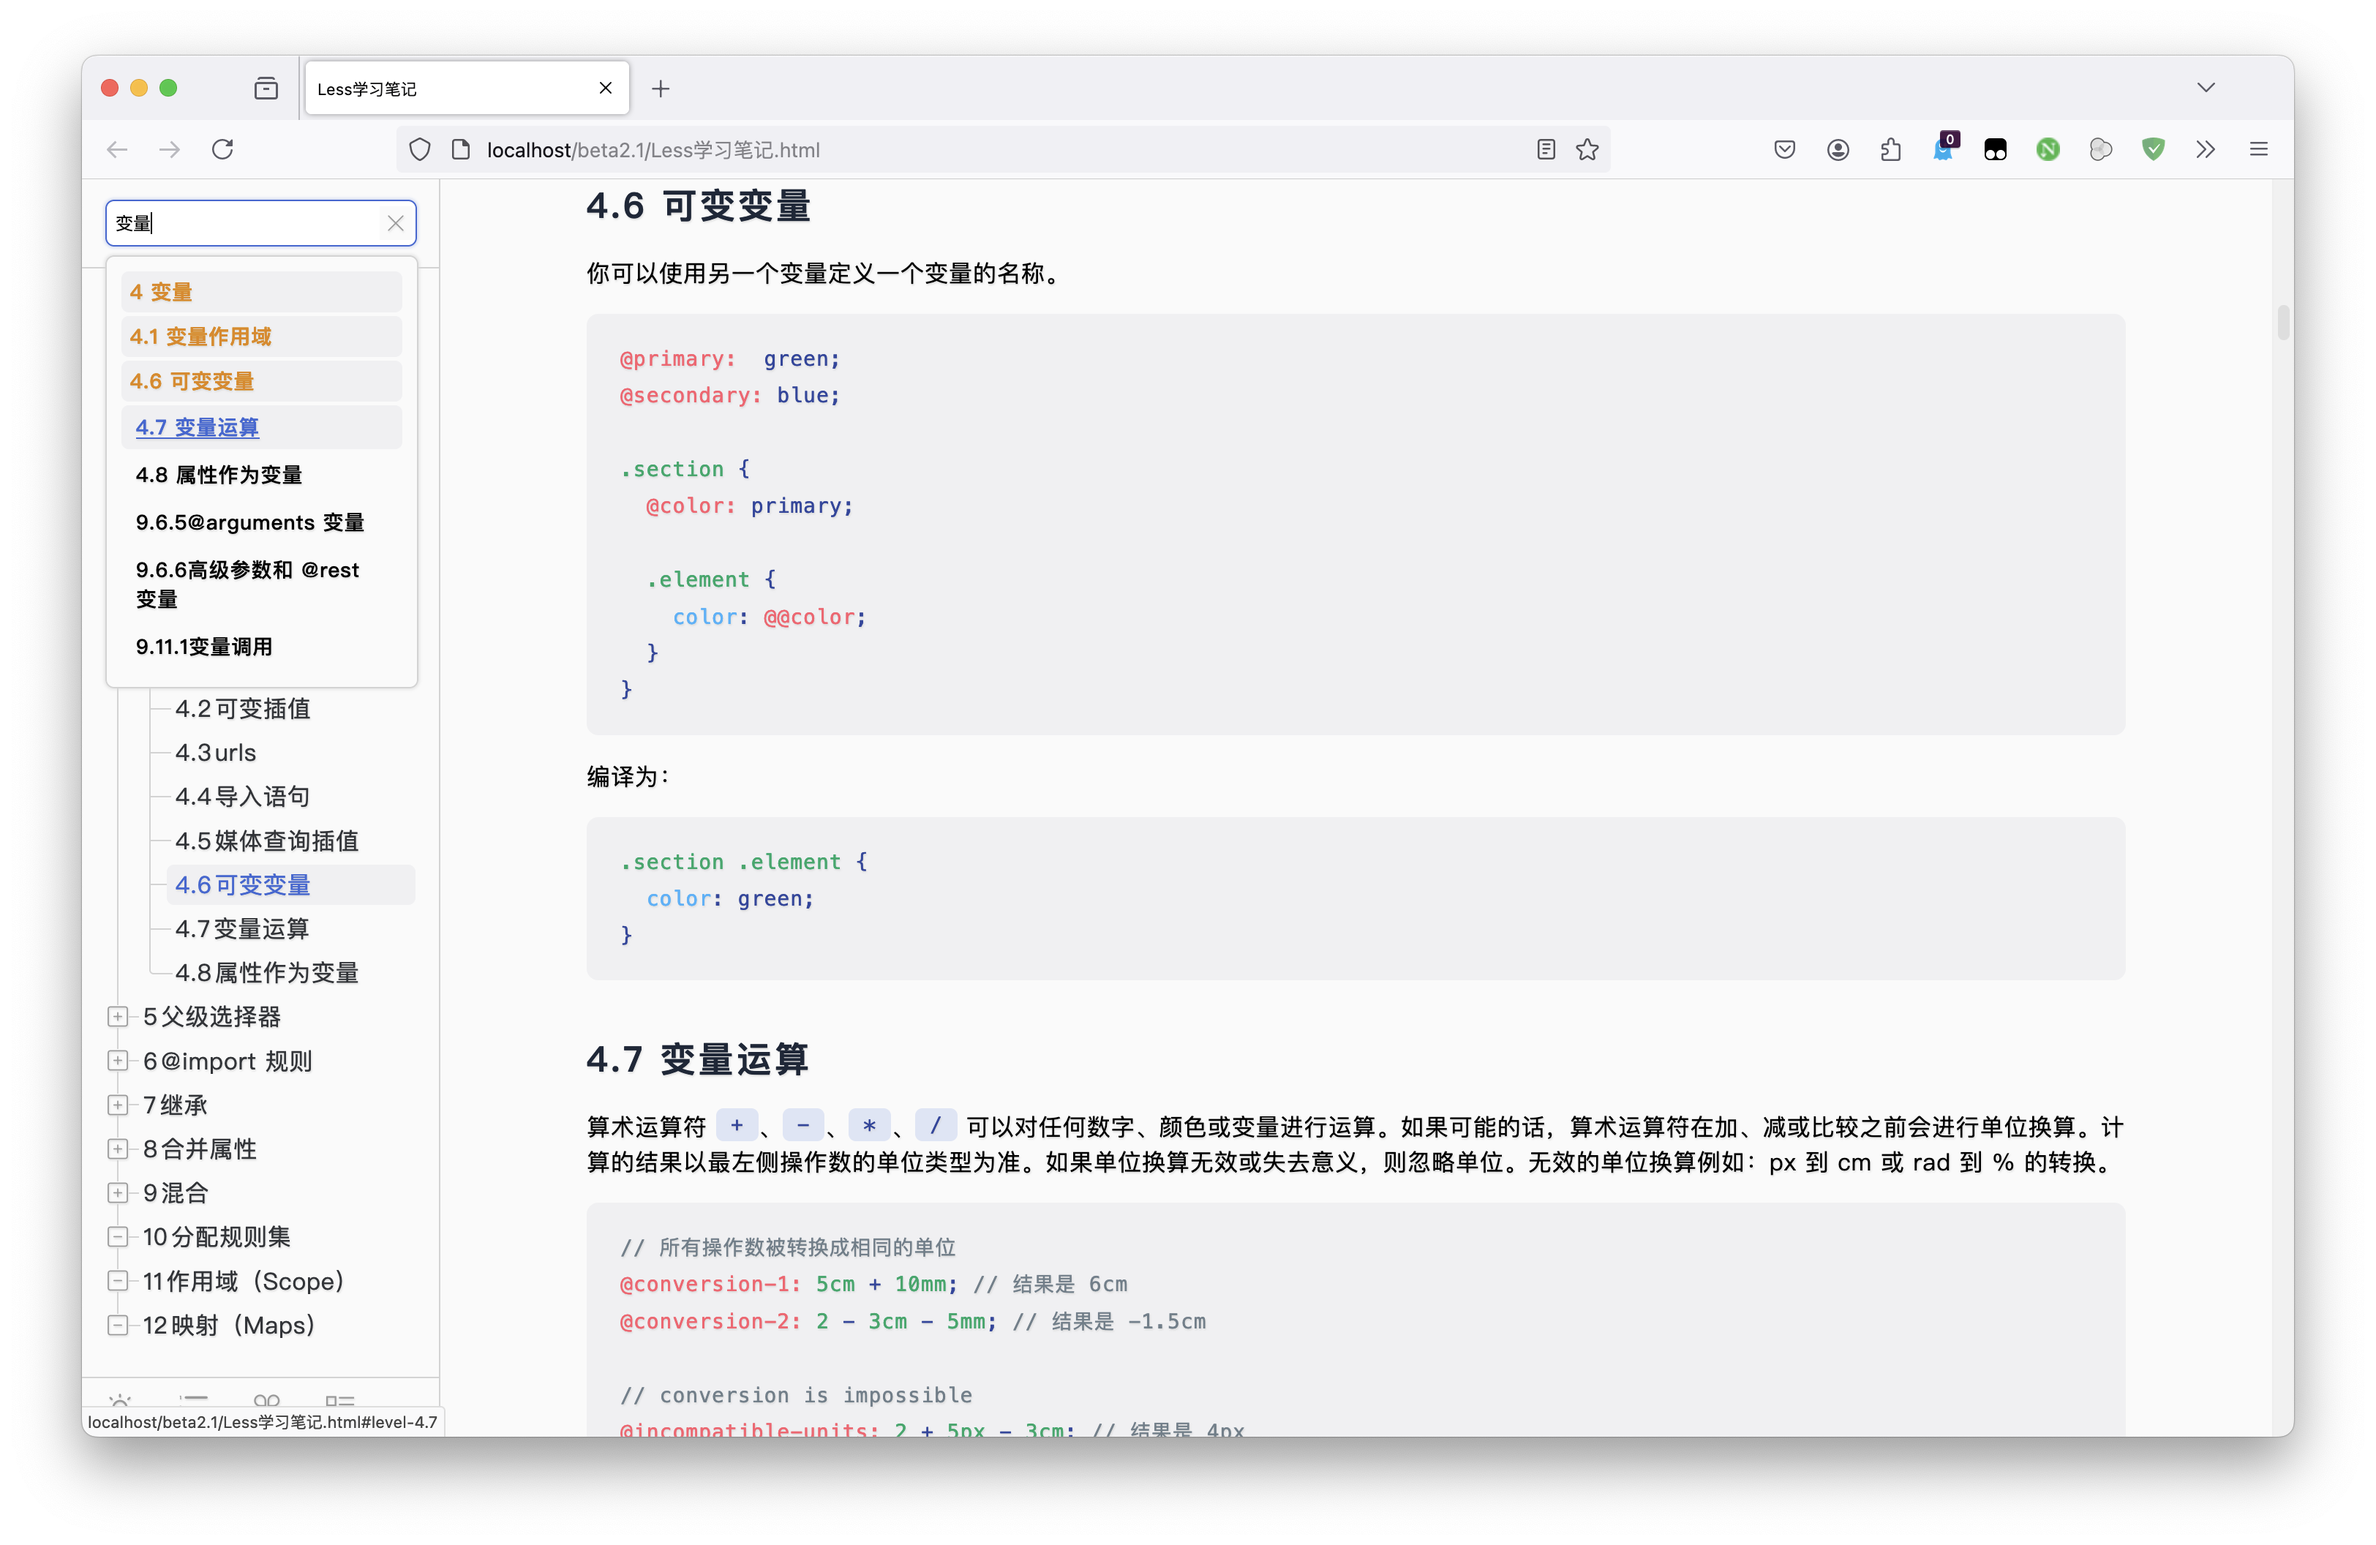
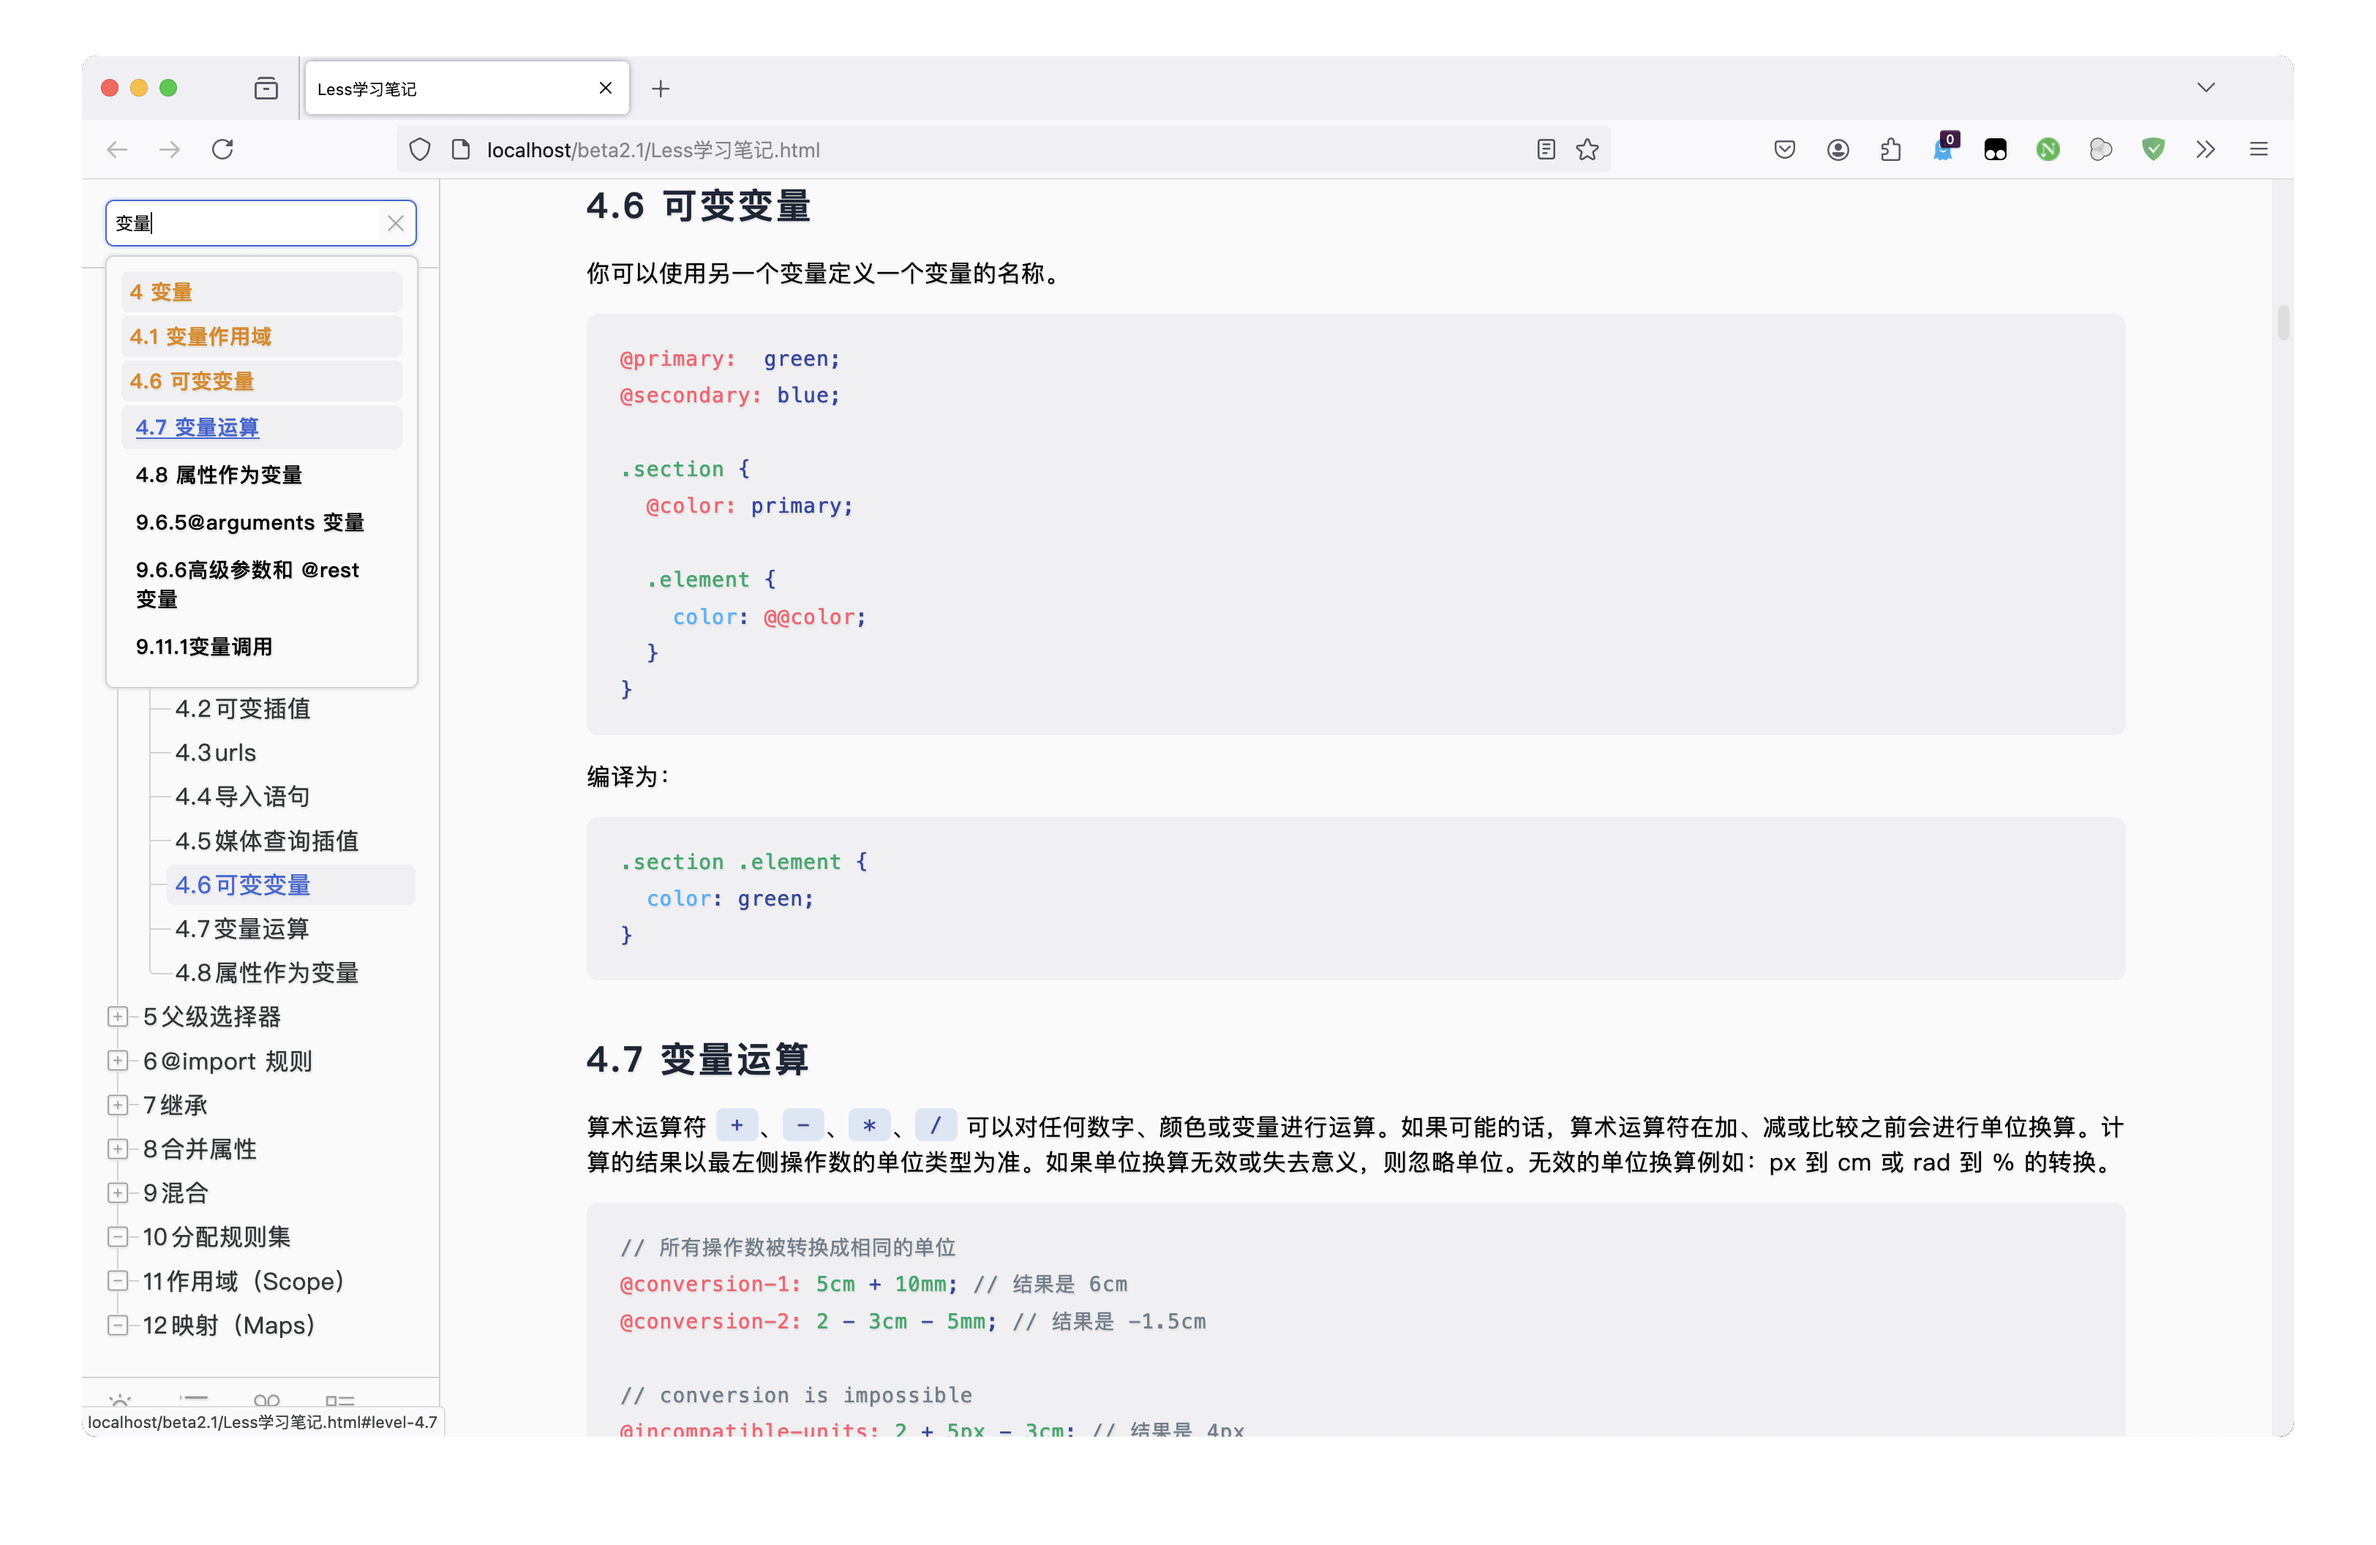
压缩图片大小

Changed region(s): [[0.0, 0.0625, 0.9951, 0.9688]]

diff --git a/readme.md b/readme.md
@@ -48,7 +48,7 @@ Can be used in any Markdown editor that supports adding JavaScript and CSS, such
 
 **3 types of directory styles**
 
-![3 种目录样式](./img/mdtht-3.jpg)
+![3 种目录样式](./img/mdtht-3.png)
 
 **Search function effect**
 

diff --git a/readme.zh.md b/readme.zh.md
@@ -48,7 +48,7 @@
 
 **3 种目录样式及隐藏目录编号**
 
-![3 种目录样式](./img/mdtht-3.jpg)
+![3 种目录样式](./img/mdtht-3.png)
 
 **搜索功能效果**
 
